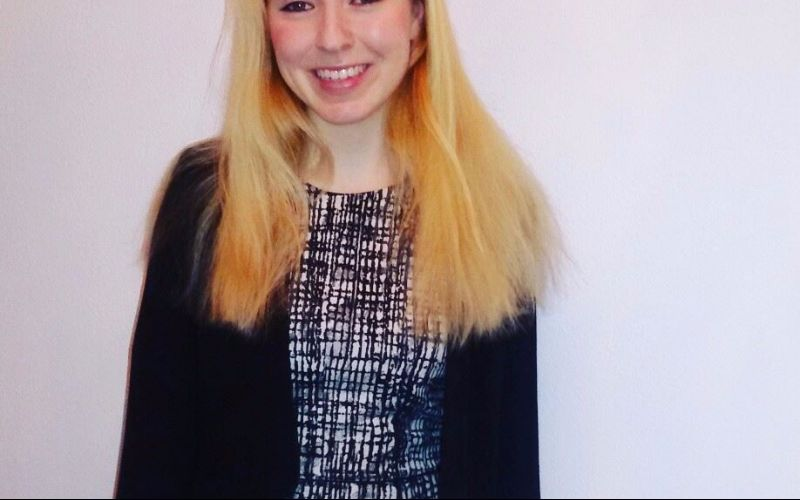
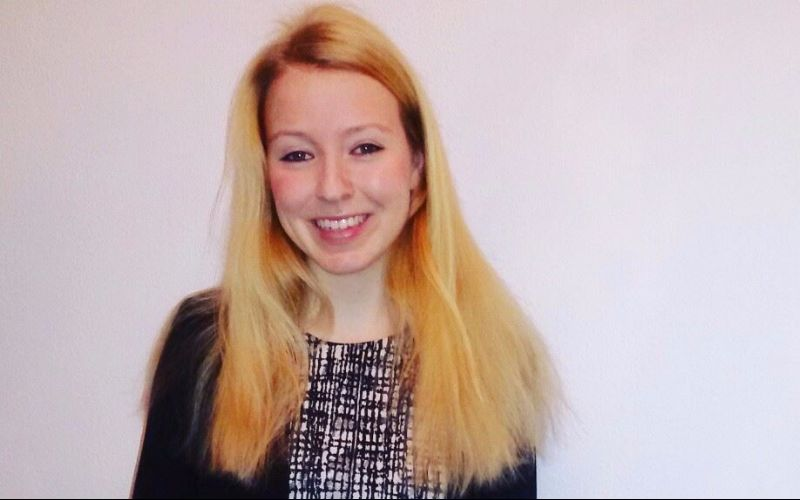
theteam finished

diff --git a/index.html b/index.html
@@ -209,53 +209,87 @@
   <br>
   <br>
   <span class="close">&times;</span>
-  <img src="https://i.imgur.com/11bozqu.jpg" height="40%" width="50%" id="nikoimg">
+  <img class="profilepicoverlay" src="https://i.imgur.com/NVqmmY4.png" height="40%" width="40%" id="nikoimg">
   <h2>Niko Gang</h2>
-  <h6>***Biography Niko***</h6>
+  <h6>
+"Lorem ipsum dolor sit amet, consectetur adipiscing elit, sed do eiusmod tempor incididunt ut labore et dolore magna aliqua. Ut enim ad minim veniam, quis nostrud exercitation ullamco laboris nisi ut aliquip ex ea commodo consequat. Duis aute irure dolor in reprehenderit in voluptate velit esse cillum dolore eu fugiat nulla pariatur. Excepteur sint occaecat cupidatat non proident, sunt in culpa qui officia deserunt mollit anim id est laborum."
+  </h6>
 </div>
 
 <div class="teamoverlay" id="overlayroos">
   <br>
   <br>
   <span class="close">&times;</span>
-  <img src="https://i.imgur.com/tUOJlJU.jpg" height="40%" width="50%" id="roosimg">
+  <img class="profilepicoverlay" src="https://i.imgur.com/tUOJlJU.jpg" height="40%" width="40%" id="roosimg">
   <h2>Roos</h2>
-  <h6>***Biography Roos***</h6>
+  <h6>"Lorem ipsum dolor sit amet, consectetur adipiscing elit, sed do eiusmod tempor incididunt ut labore et dolore magna aliqua. Ut enim ad minim veniam, quis nostrud exercitation ullamco laboris nisi ut aliquip ex ea commodo consequat. Duis aute irure dolor in reprehenderit in voluptate velit esse cillum dolore eu fugiat nulla pariatur. Excepteur sint occaecat cupidatat non proident, sunt in culpa qui officia deserunt mollit anim id est laborum."</h6>
 </div>
 
 <div class="teamoverlay" id="overlaysimonas">
   <br>
   <br>
   <span class="close">&times;</span>
-  <img src="https://i.imgur.com/KPk0TNW.jpg" height="40%" width="50%" id="simonasimg">
+  <img class="profilepicoverlay" src="https://i.imgur.com/KPk0TNW.jpg" height="40%" width="40%" id="simonasimg">
   <h2>Simonas</h2>
-  <h6>***Biography Simonas***</h6>
+  <h6>"Lorem ipsum dolor sit amet, consectetur adipiscing elit, sed do eiusmod tempor incididunt ut labore et dolore magna aliqua. Ut enim ad minim veniam, quis nostrud exercitation ullamco laboris nisi ut aliquip ex ea commodo consequat. Duis aute irure dolor in reprehenderit in voluptate velit esse cillum dolore eu fugiat nulla pariatur. Excepteur sint occaecat cupidatat non proident, sunt in culpa qui officia deserunt mollit anim id est laborum."</h6>
 </div>
 
 <div class="teamoverlay" id="overlayrosanne">
   <br>
   <br>
   <span class="close">&times;</span>
-  <img src="https://i.imgur.com/xG5DQe8.jpg" height="40%" width="50%" id="rosanneimg">
+  <img class="profilepicoverlay" src="https://i.imgur.com/aPMZVfC.jpg" height="40%" width="40%" id="rosanneimg">
   <h2>Rosanne</h2>
-  <h6>***Biography Rosanne***</h6>
+  <h6>"Lorem ipsum dolor sit amet, consectetur adipiscing elit, sed do eiusmod tempor incididunt ut labore et dolore magna aliqua. Ut enim ad minim veniam, quis nostrud exercitation ullamco laboris nisi ut aliquip ex ea commodo consequat. Duis aute irure dolor in reprehenderit in voluptate velit esse cillum dolore eu fugiat nulla pariatur. Excepteur sint occaecat cupidatat non proident, sunt in culpa qui officia deserunt mollit anim id est laborum."</h6>
 </div>
 
 <div class="teamoverlay" id="overlaynils">
   <br>
   <br>
   <span class="close">&times;</span>
-  <img src="https://i.imgur.com/1jZmOyB.jpg" height="40%" width="50%" id="nilsimg">
+  <img class="profilepicoverlay" src="https://i.imgur.com/1jZmOyB.jpg" height="40%" width="40%" id="nilsimg">
   <h2>Nils</h2>
-  <h6>***Biography Nils***</h6>
+  <h6>"Lorem ipsum dolor sit amet, consectetur adipiscing elit, sed do eiusmod tempor incididunt ut labore et dolore magna aliqua. Ut enim ad minim veniam, quis nostrud exercitation ullamco laboris nisi ut aliquip ex ea commodo consequat. Duis aute irure dolor in reprehenderit in voluptate velit esse cillum dolore eu fugiat nulla pariatur. Excepteur sint occaecat cupidatat non proident, sunt in culpa qui officia deserunt mollit anim id est laborum."</h6>
 </div>
 
+<div class="theteam">
+<h1>The team</h1>
+<h4>The present flight details could not have been realized without the support of this amazing team. Please click on the respective profiles to get to know them a little bit better - knowing that each and every one of them is amazing, again.</h4>
+</div>
+
+<br>
+
+<div class="container">
 <div class="row" id="teamgrid">
-  <img src="https://i.imgur.com/11bozqu.jpg" height="200px" width="20%" id="niko">
-  <img src="https://i.imgur.com/tUOJlJU.jpg" height="200px" width="20%" id="roos">
-  <img src="https://i.imgur.com/KPk0TNW.jpg" height="200px" width="20%" id="simonas">
-  <img src="https://i.imgur.com/xG5DQe8.jpg" height="200px" width="20%" id="rosanne">
-  <img src="https://i.imgur.com/1jZmOyB.jpg" height="200px" width="20%" id="nils">
+  <div class="col-sm-4">
+    <img class="profilepic" src="https://i.imgur.com/NVqmmY4.png" height="200px" width="200px" border-radius:"50%" id="niko">
+    <h4>Niko Gang</h4>
+  </div>
+    <div class="col-sm-4">
+    <img class="profilepic" src="https://i.imgur.com/tUOJlJU.jpg" height="200px" width="200px" id="roos">
+    <h4>Roos Klein Entink</h4>
+  </div>
+    <div class="col-sm-4">
+    <img class="profilepic" src="https://i.imgur.com/KPk0TNW.jpg" height="200px" width="200px" id="simonas">
+    <h4>Simonas</h4>
+  </div>
+</div>
+</div>
+
+<br>
+<br>
+
+<div class="container">
+<div class="row" id="teamgrid2">
+  <div class="col-sm-6">
+    <img class="profilepic" src="https://i.imgur.com/aPMZVfC.jpg" height="200px" width="200px" id="rosanne">
+    <h4>Rosanne</h4>
+  </div>
+  <div class="col-sm-6">
+    <img class="profilepic" src="https://i.imgur.com/1jZmOyB.jpg" height="200px" width="200px" id="nils">
+    <h4>Nils</h4>
+</div>
+</div>
 </div>
 
     <!-- End of Niko's test //-->
@@ -281,7 +315,7 @@ This website uses cookies to better the users experience while visiting the webs
 <button class="btn btn-primary" id="cookiebtn">I ACCEPT</button>
 </div>
 </div>
-<!-- End of Cookie //--> //-->
+<!-- End of Cookie //-->
 
     <script src="http://code.jquery.com/jquery-3.2.1.js"></script>
     <script src="https://cdnjs.cloudflare.com/ajax/libs/popper.js/1.12.3/umd/popper.min.js" integrity="sha384-vFJXuSJphROIrBnz7yo7oB41mKfc8JzQZiCq4NCceLEaO4IHwicKwpJf9c9IpFgh" crossorigin="anonymous"></script>

diff --git a/style.css b/style.css
@@ -228,6 +228,15 @@ h5 {
 }
 
 /* Team design */
+.theteam {
+  text-align: center;
+  width: 70%;
+  margin: auto;
+}
+
+.theteam h4 {
+  font-size: 93%;
+}
 
 .close {
     position: absolute;
@@ -246,10 +255,31 @@ h5 {
     cursor: pointer;
 }
 
-#teamgrid {
-  border-radius: 5px;
+.row {
   cursor: pointer;
   transition: 0.3s;
+}
+
+.profilepic {
+  border-radius: 50%;
+  margin: auto;
+  border-style: solid;
+  border-color: #0084b4;
+  display: block;
+}
+
+.profilepicoverlay {
+  border-style: solid;
+  border-radius: 5%;
+}
+
+h6 {
+  width: 70%;
+  margin: auto;
+}
+
+h4 {
+  text-align: center;
 }
 
 #niko:hover {
